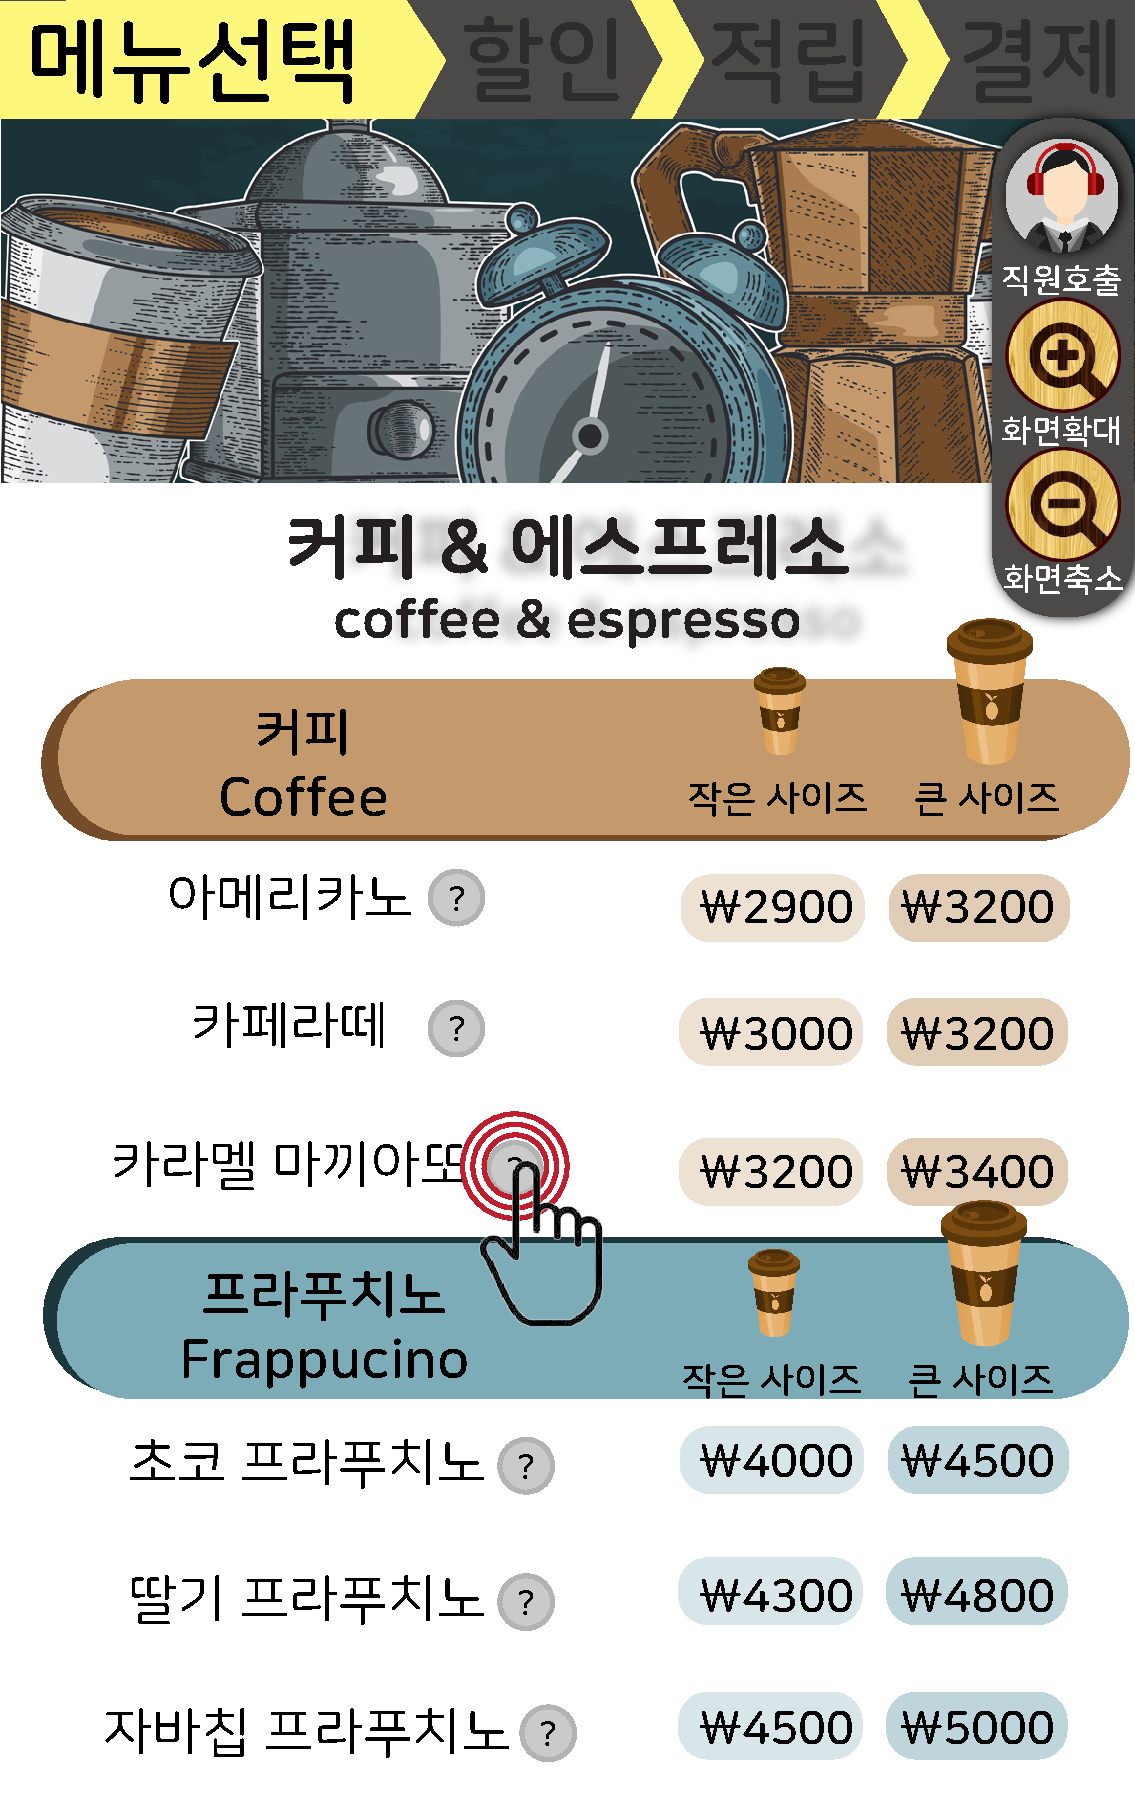
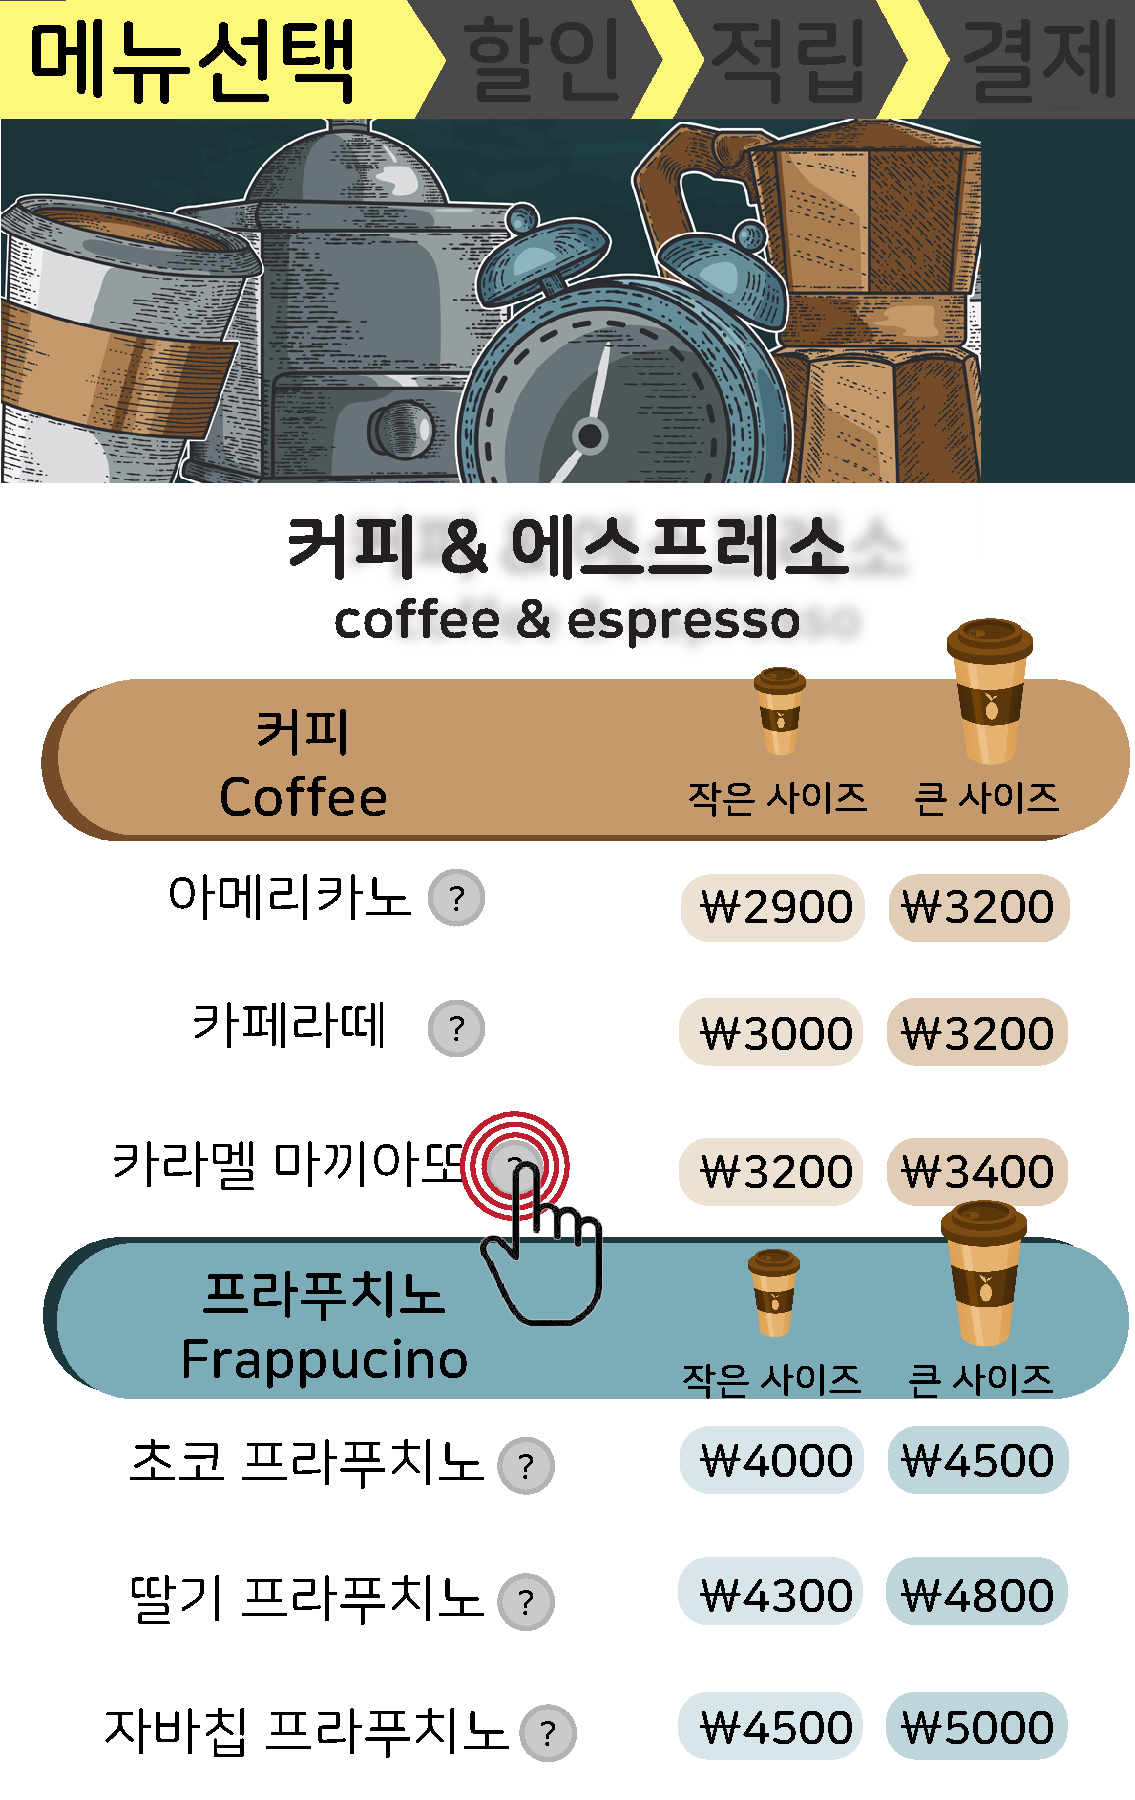
123

Changed region(s): [[0.8634, 0.0622, 1.0, 0.3733]]

diff --git a/sketch.js b/sketch.js
@@ -1,12 +1,22 @@
 var weight;
 let img;
 let imageRatio;
+let temp1;
 let temp2;
+let temp3;
+let temp4;
+let temp5;
+let temp6;
+
+let btnArray = []; // Container for buttons
+
 var realHeight;
 
 var imageWidth;
 var imageHeight;
 var size;
+
+var scenenumber;
 
 function setup()
 {
@@ -15,27 +25,34 @@ size = windowHeight * windowWidth;
 
 background(20,40,40);
 
-tempBut = new WidgetButton(50,50,10,20);
 
-img = loadImage("resources/1.jpg");
-temp2 = loadImage("resources/2.jpg");
-
-
+img = loadImage("resources/1.png");
+temp1 = loadImage("resources/1.png");
+temp2 = loadImage("resources/2.png");
 
 imageRatio = img.height / img.width;
 realHeight = windowHeight;
 
 
-strokeWeight(3);
+if (windowWidth * imageRatio < realHeight)
+  {
+    imgWidth = windowWidth;
+    imgHeight = imgWidth * imageRatio;
+  }
+  else
+  {
+    imgWidth = windowHeight / imageRatio;
+    imgHeight = windowHeight;
+  }
 
+  
 }
 
 function draw()
 {
   
   size = Math.sqrt(windowHeight * windowWidth) 
-  ellipse(windowWidth-60, mouseY, size / 15, size / 15);
-
+  
   var imgWidth;
   var imgHeight;
   imageWidth = img.width;
@@ -51,14 +68,21 @@ function draw()
     imgWidth = windowHeight / imageRatio;
     imgHeight = windowHeight;
   }
-  
   image(img, 0, 0, imgWidth, imgHeight);
+  
+  strokeWeight(3);
+  stroke(0);
+  ellipse(windowWidth-60, mouseY, size / 15, size / 15);
 
+  
   tempBut.display();
+  tempBut.updatePos(imgWidth*7/10, imgHeight * 21/32,imgWidth/9 ,imgHeight / 30);
+  
   if(tempBut.isClick())
   {
     img = temp2;
   }
+  
 }
 
 function windowResized() { 
@@ -66,19 +90,68 @@ function windowResized() {
   
 }
 
+function sceneChange()
+{
+  // pop btn arraylist
+  while(btnArray.size != 0) btnArray.pop();
+
+  switch(scenenumber)
+  {
+    case 1: scene1(); break;
+    case 2: break;
+
+
+  }
+
+}
+
+
+function scene1()
+{
+  img = temp1;
+  // buttons 
+  tempBut = new WidgetButton(imgWidth*7/10, imgHeight * 8/12,imgWidth/20 ,imgHeight / 40);
+
+  
+}
+function scene2()
+{
+  img = temp2;
+  // buttons 
+
+
+}
+function scene3()
+{
+  img = temp3;
+  // buttons 
+
+}
+
+
+
 class WidgetButton {
   constructor(xpos, ypos, sizex, sizey) {
     this.x = xpos;
     this.y = ypos;
+    
     this.diameterX = sizex;
     this.diameterY = sizey;
-    
+  }
+
+  updatePos(xPos, yPos, sizex, sizey)
+  {
+    this.x = xPos;
+    this.y = yPos;
+
+    this.diameterX = sizex;
+    this.diameterY = sizey;
   }
 
   display() {
     fill(0,0,0,0);
     stroke(255,0,0);
-    strokeWeight(3);
+    strokeWeight(1);
 
     ellipse(this.x, this.y, this.diameterX, this.diameterY);
     
